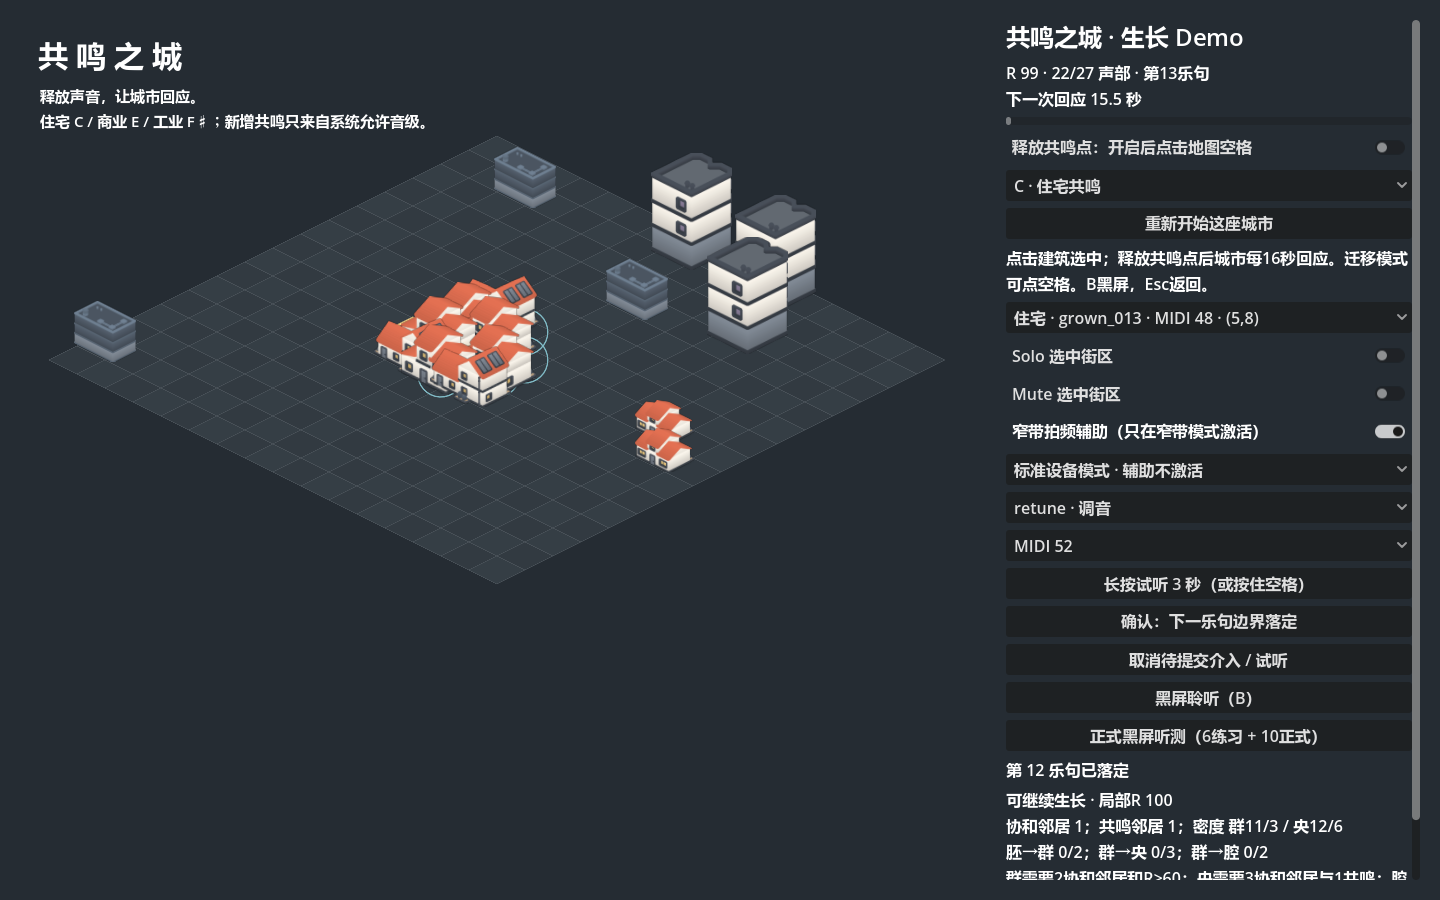
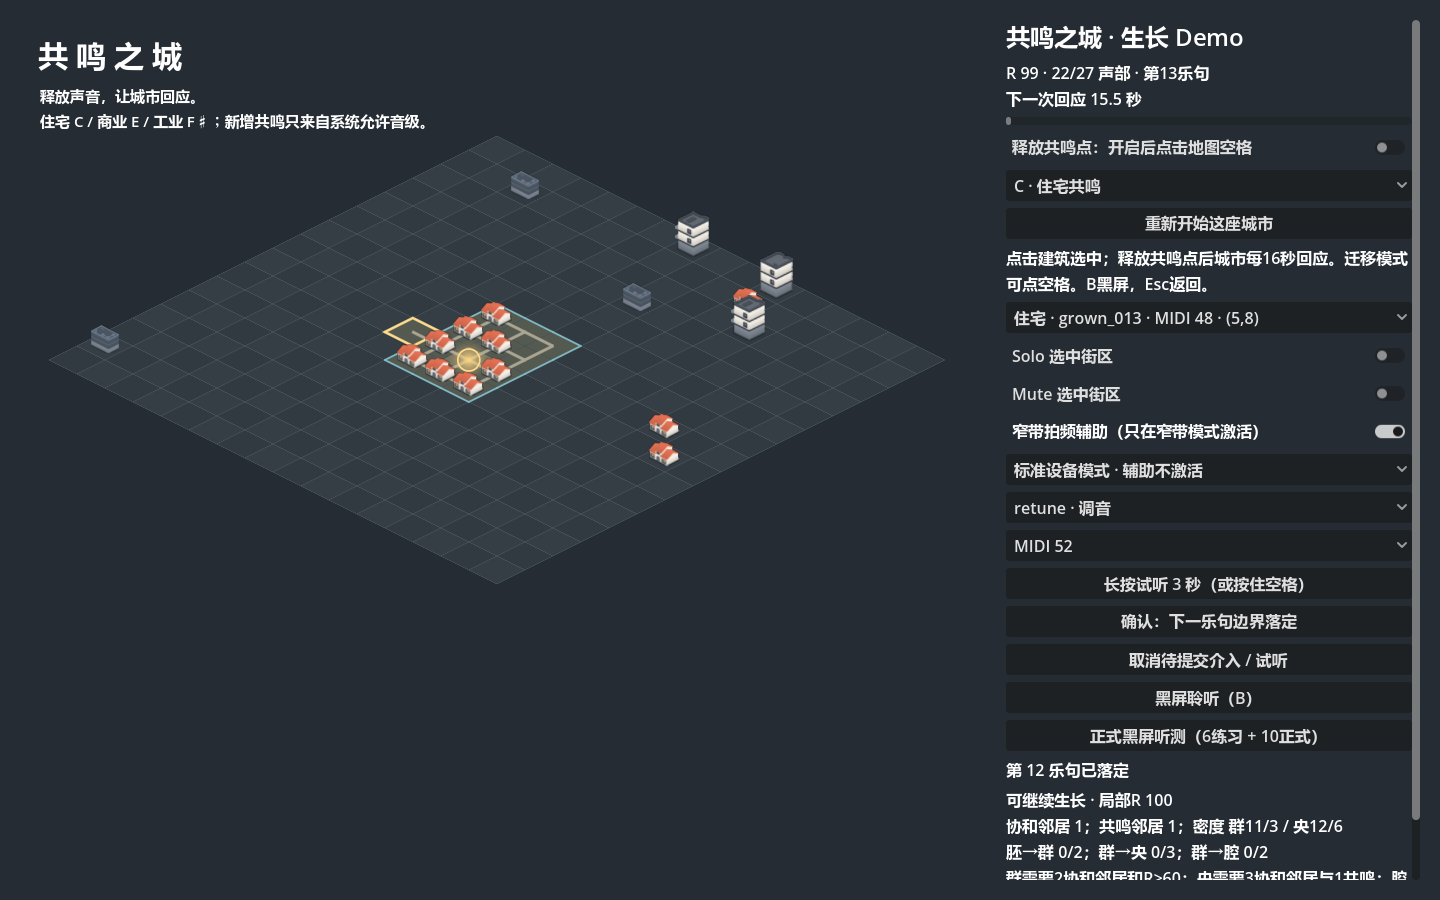
CITY-004: fit clustered buildings to plots and show shared estate boundaries

diff --git a/tools/build_spec_data.py b/tools/build_spec_data.py
@@ -218,6 +218,7 @@ def generate():
         'new_voice_level': numbers(growth['Demo声音预算'])[2],
         'tile_half_width': numbers(growth['Demo显示'])[2],
         'tile_half_height': numbers(growth['Demo显示'])[3],
+        'plot_coverage': numbers(growth['地面占地与缩放'])[0],
     }
     result['sources'] = {name: hashlib.sha256(read(name).encode()).hexdigest()
                          for name in ['spec.audio.md', 'spec.city.md', 'spec.harmony.md', 'spec.proposal.md']}

diff --git a/文档/01_执行规格/spec.city.md b/文档/01_执行规格/spec.city.md
@@ -111,7 +111,8 @@
 | 扩张 | 每个已释放源点每乐句最多自动新增1建筑，包含源点出生乐句；从本家族未冻结的连通四向边界空格选件；至少1协和边且没有s≤0.05邻居，优先最多同家族邻居，再近源点，再坐标顺序；不消耗terrain随机流 |
 | 连通 | P1-α复用源点家族四向连通，不强加尚未实现的街道；迁移后不连通则停止升级/扩张，保留已有建筑；draft/tread留后续 |
 | Demo声音预算 | 最多27声音实体，含原9街区、源点和自动建筑；每个新增实体0.20倍原层振幅，原9街区与公共校准gain不改；源点rhythm/ornament为零；到上限仅暂停扩张，不扣分/失败 |
-| 形态选件 | 只读manifest，住宅/商业各3烘焙整图：胚对应a、群b、央/腔c；体量显示递进，腔有轮廓标记；这是最小候选形态，不冒充已完成稀有命名形态或其独特声学行为 |
+| 形态选件 | 只读manifest，按邻接/可见窗面择单栋；密集住宅用紧凑a，独立边缘允许b/c侧翼，商业前排用低c、后排用a/b。群/央/腔由连片地面、院落/共享通道和集群外沿状态边界表达，不按阶段把每栋图片放大；不冒充完整稀有命名形态 |
+| 地面占地与缩放 | 每栋最大地面轴只占逻辑格0.66；按manifest.model_bounds与45°/30°投影重建像素/世界单位，保留原宽高比例和ground-origin，不按PNG宽度硬缩放。crop字段是原烘焙画布中的x/y/width/height，只用于重建缩放；点击框使用部署纹理尺寸与origin；房屋不越入邻居地块，允许正常高度遮挡；共鸣点格是开放院落 |
 | 事件视觉 | 新实体/形态升级事件在其结算帧之后下一个拍点开始，读取可听音频帧展开精确1拍；迁移只在边界更新位置，不用墙钟决定机制 |
 | Demo显示 | 固定16×16等距地图，半格宽28px、高14px；逐实体单Sprite、Y排序；点击建筑选中，迁移模式点击合法空格选目标，释放模式点击空格提交；B全部黑屏，Esc恢复 |
 | Demo时序 | 保持120BPM、16秒乐句与HARM-003原迟滞/3低R乐句结束；不采用草案中与其冲突的12乐句预兆；当前结束可重开 |

diff --git a/验证记录/Demo/集群优化说明.md b/验证记录/Demo/集群优化说明.md
@@ -1,0 +1,7 @@
+# 集群优化记录
+
+`集群优化对比.png` 从同一实际GPU场景旧/新截图的同一区域裁切放大；没有绘制替代效果图。左右各为调整前/后。旧图与日志已移到废弃目录保留。
+
+改动：按模型占地适配逻辑格、按邻接选择紧凑/低楼模板、保留共享通道和源点院落、状态只沿整组外沿。现有窗户/屋顶纹理未重绘；已授权素材当前用于布局参考。
+
+实际场景检查命令：`Godot_v4.7.2-stable_win64_console.exe --audio-driver Dummy --path . --script res://tests/growth_demo_smoke.gd`。结果exit0，12模拟乐句9→22实体，胚/群/腔实际出现，22纹理精灵与声音路由同步、选择和黑屏恢复通过。仅证明本次场景运行，不等同真人审美批准、真实时间生长速度或长期声音压力测量。

diff --git a/文档/Demo快速开始.md b/文档/Demo快速开始.md
@@ -9,3 +9,5 @@
 5. B 全黑聆听，Esc 恢复；“重新开始”回到本日原始城市。正式人测另点专用按钮，仍使用原标准协议。
 
 这版完成 release + 自动扩张 + 条件升级的 P1-α 体验。工业不会被自动生成；新增声音有振幅预算，当前最多27实体。draft/tread、图鉴、稀有命名形态与卡帧演出留后续。主观好玩与艺术效果等待实际游玩反馈。
+
+当前集群以地面占地排列：紧凑屋顶、开放院落与共享通道；形态升级沿整组外侧显示状态边界。已授权2.5D素材可按需用于后续选件，本轮图片仍是现有CC0烘焙整图。
